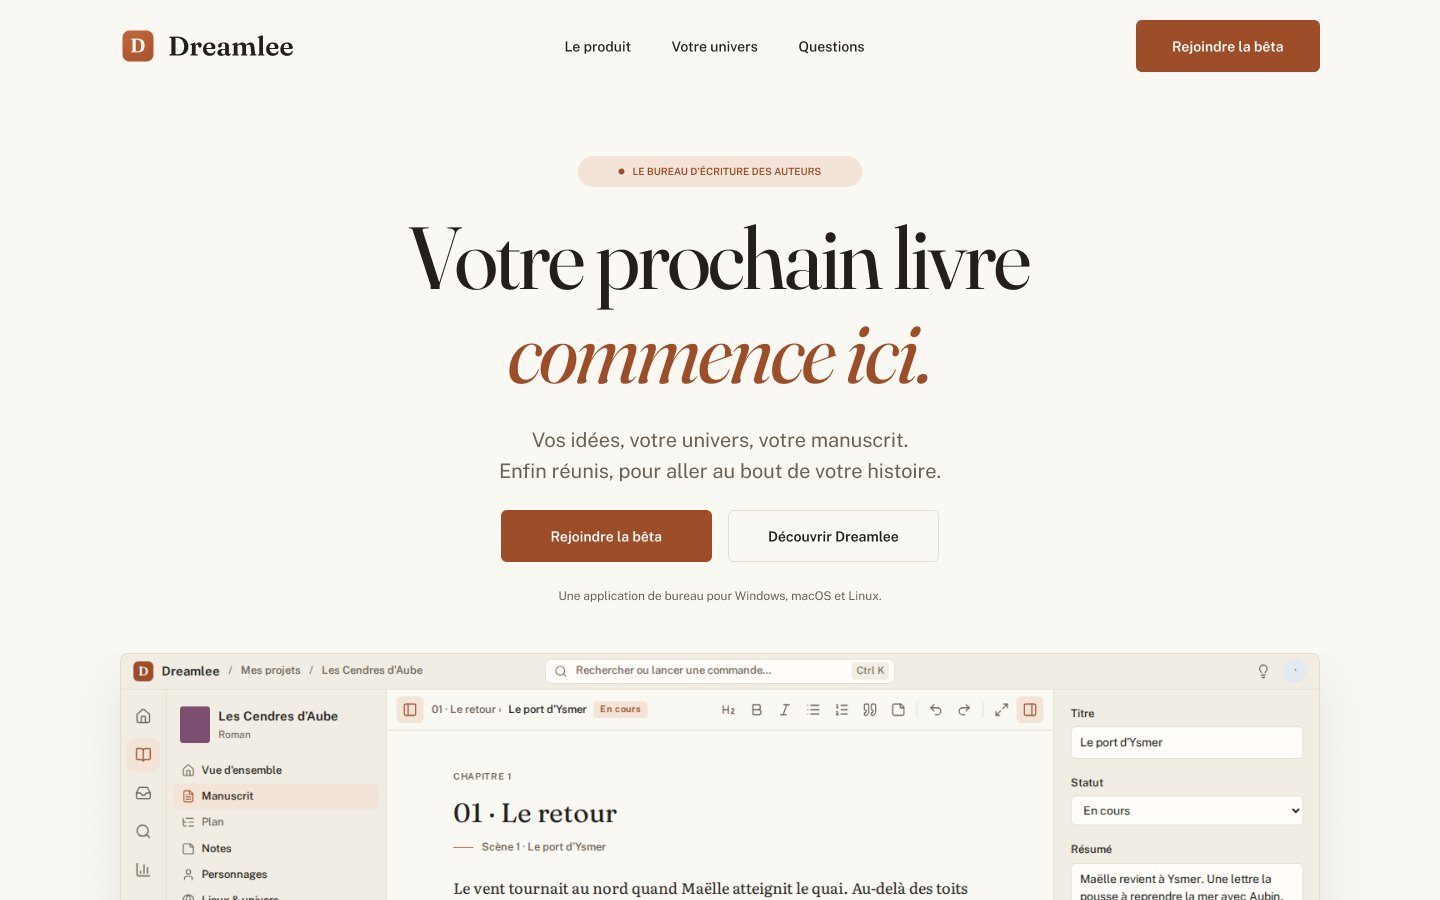
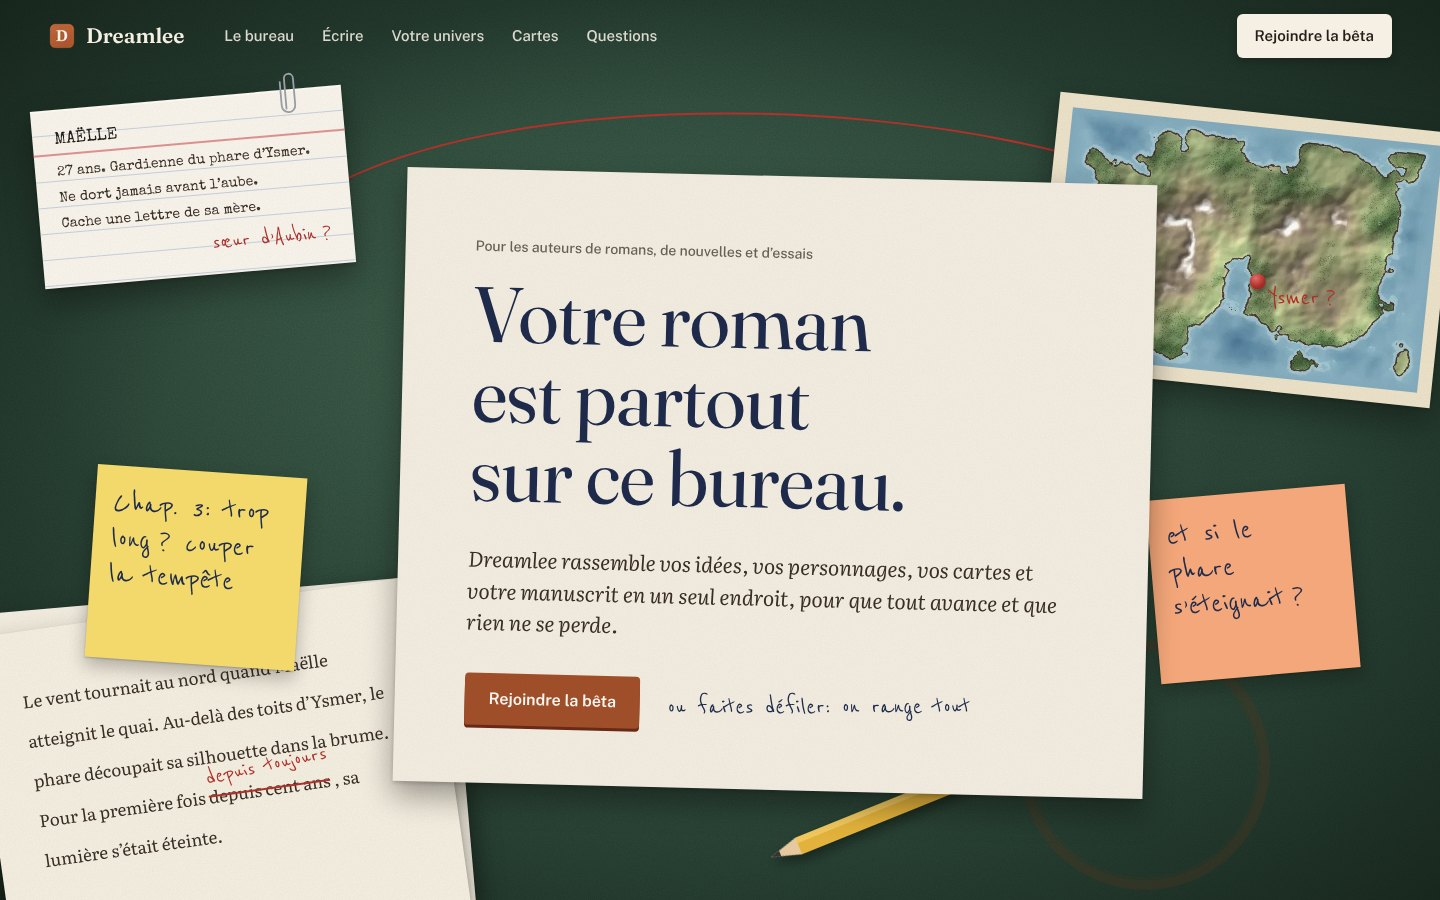
feat(content): link the dreamlee site and the path tracer color gallery

diff --git a/src/content.config.ts b/src/content.config.ts
@@ -19,6 +19,8 @@ const projects = defineCollection({
       status: z.enum(["Terminé", "En cours"]).default("Terminé"),
       repo: z.string().url().optional(),
       demo: z.string().url().optional(),
+      demoLabel: z.string().default("Essayer la démo"),
+      links: z.array(z.object({ label: z.string(), url: z.string().url() })).default([]),
       cover: image().optional(),
       coverAlt: z.string().optional(),
       gallery: z.array(z.object({ src: image(), alt: z.string() })).default([]),

diff --git a/src/content/projects/dreamlee-landing.md b/src/content/projects/dreamlee-landing.md
@@ -6,11 +6,15 @@ kind: Personnel
 team: Solo
 stack: [Astro, TypeScript, Playwright, Vitest]
 repo: https://github.com/Landry-16/Dreamlee-landing-page
+demo: https://dreamlee.vercel.app/
+demoLabel: Voir le site
 cover: ../../assets/projects/dreamlee-landing/hero.jpg
-coverAlt: L'accueil de la page Dreamlee
+coverAlt: Le bureau d'un auteur en désordre, en haut de la page Dreamlee
 gallery:
   - src: ../../assets/projects/dreamlee-landing/section.jpg
-    alt: Une section de la page qui fait essayer l'éditeur
+    alt: Le tableau de liège qui relie personnages, lieux et objets
+  - src: ../../assets/projects/dreamlee-landing/section-2.jpg
+    alt: La section sur le rythme d'écriture, avec minuteur et statistiques
 featured: true
 order: 4
 ---

diff --git a/src/content/projects/path-tracer.md b/src/content/projects/path-tracer.md
@@ -6,6 +6,9 @@ kind: École
 team: Équipe Epitech
 stack: [C++17, CMake, SFML, ImGui, Open Image Denoise]
 repo: https://github.com/Landry-16/Path-Tracer_Sandes_copy
+links:
+  - label: Galerie en couleur
+    url: https://github.com/Landry-16/Path-Tracer_Sandes_copy#gallery
 cover: ../../assets/projects/path-tracer/lion.jpg
 coverAlt: Statue de lion en marbre, rendue par le path tracer
 gallery:
